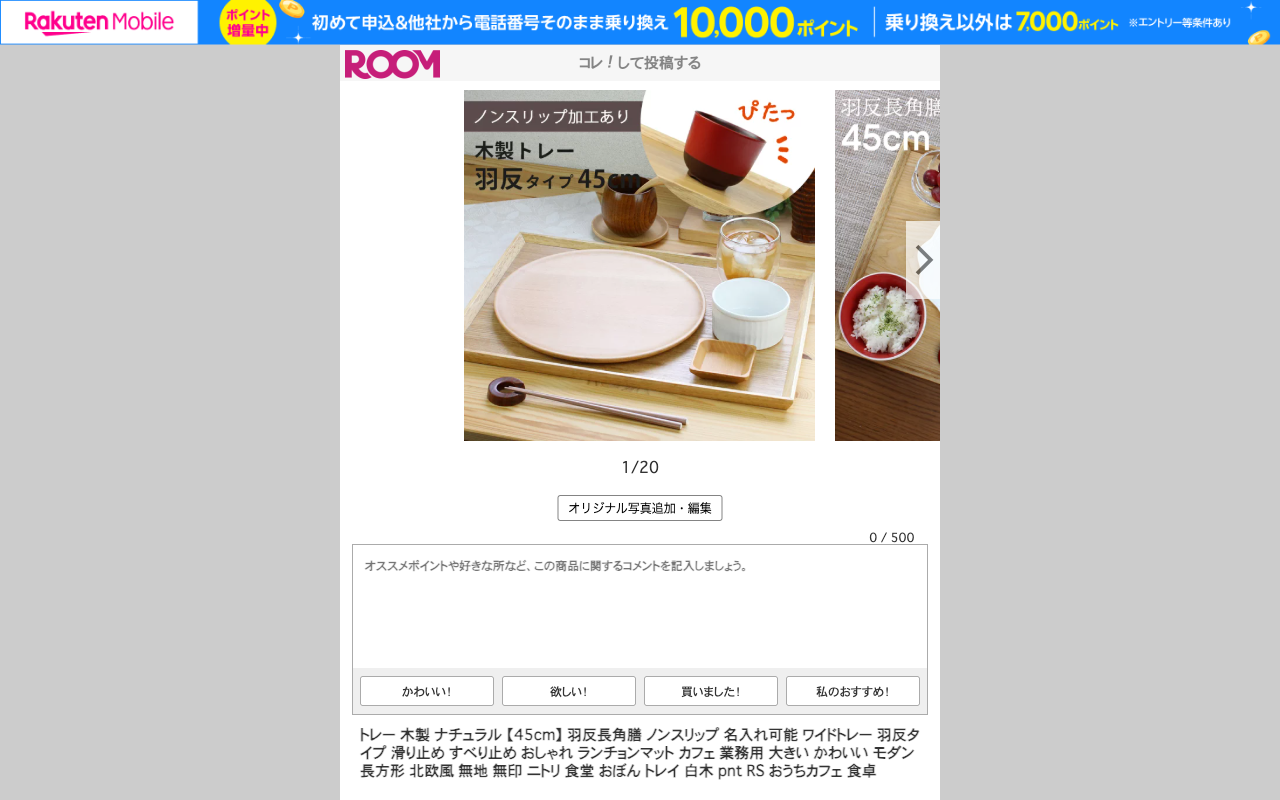
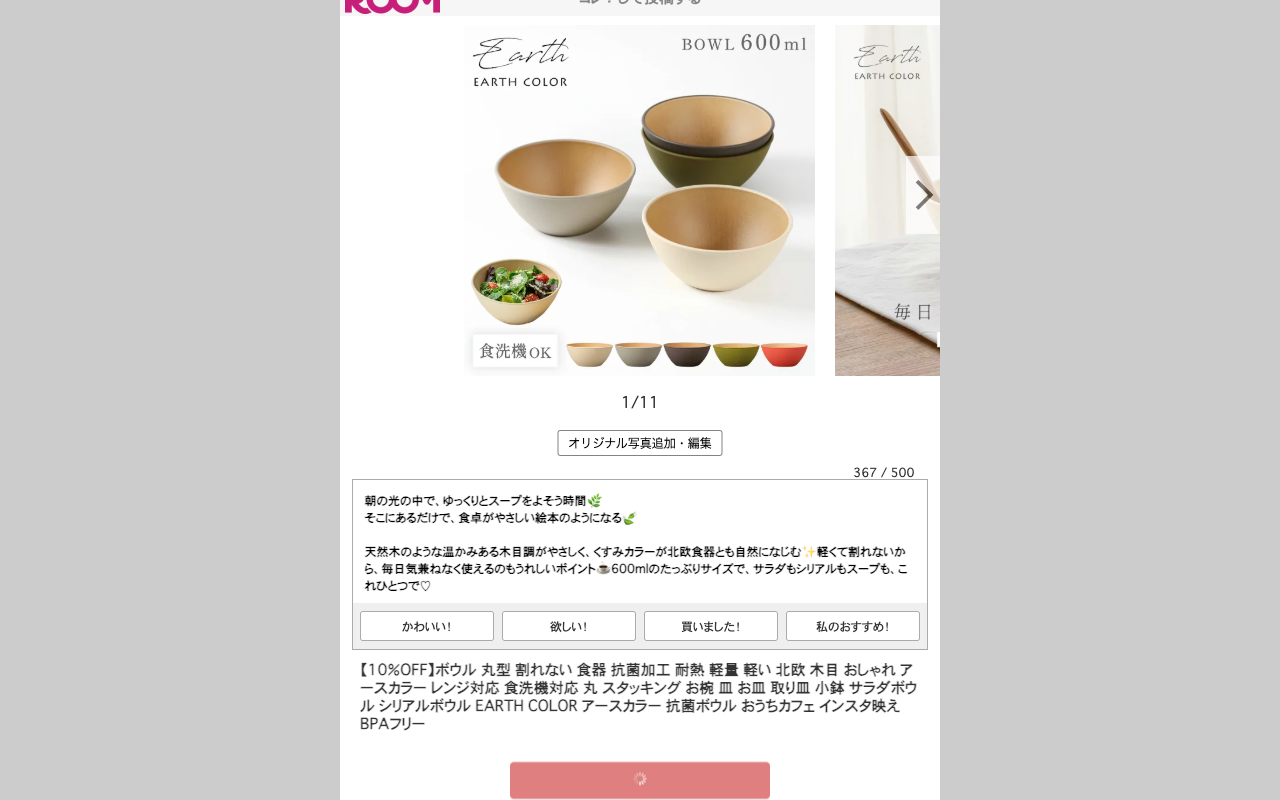
楽天API修正

Changed region(s): [[0.0, 0.0, 1.0, 0.5938], [0.2812, 0.75, 0.7188, 1.0], [0.2812, 0.5938, 0.7188, 0.75]]

diff --git a/main.py b/main.py
@@ -127,6 +127,13 @@ def run_auto_post(config: dict, test_mode: bool = False):
     logger.info(f"自動投稿完了: {posted_count}件投稿")
     logger.info("=" * 50)
 
+    # スケジューラー実行時（CI以外）は投稿後にスリープ
+    if not test_mode and os.getenv("CI") != "true" and "--now" not in sys.argv:
+        logger.info("投稿完了 → 5分後にスリープします")
+        import time
+        time.sleep(300)
+        os.system("pmset sleepnow")
+
 
 def main():
     load_dotenv()

diff --git a/src/rakuten_api.py b/src/rakuten_api.py
@@ -2,6 +2,7 @@
 楽天市場API経由で商品を検索・取得するモジュール
 """
 
+import random
 import requests
 import logging
 from dataclasses import dataclass
@@ -43,12 +44,16 @@ class RakutenAPI:
     ) -> list[RakutenItem]:
         """楽天市場APIで商品を検索して条件でフィルタリングして返す"""
 
+        # 毎回違う商品を取得するためにページをランダムにずらす
+        page = random.randint(1, 5)
+
         params = {
             "format": "json",
             "keyword": keyword,
             "applicationId": self.app_id,
             "accessKey": self.access_key,
-            "hits": min(hits * 3, 30),  # フィルタ後に必要数残るよう多めに取得
+            "hits": 30,
+            "page": page,
             "sort": sort,
             "imageFlag": 1,
         }